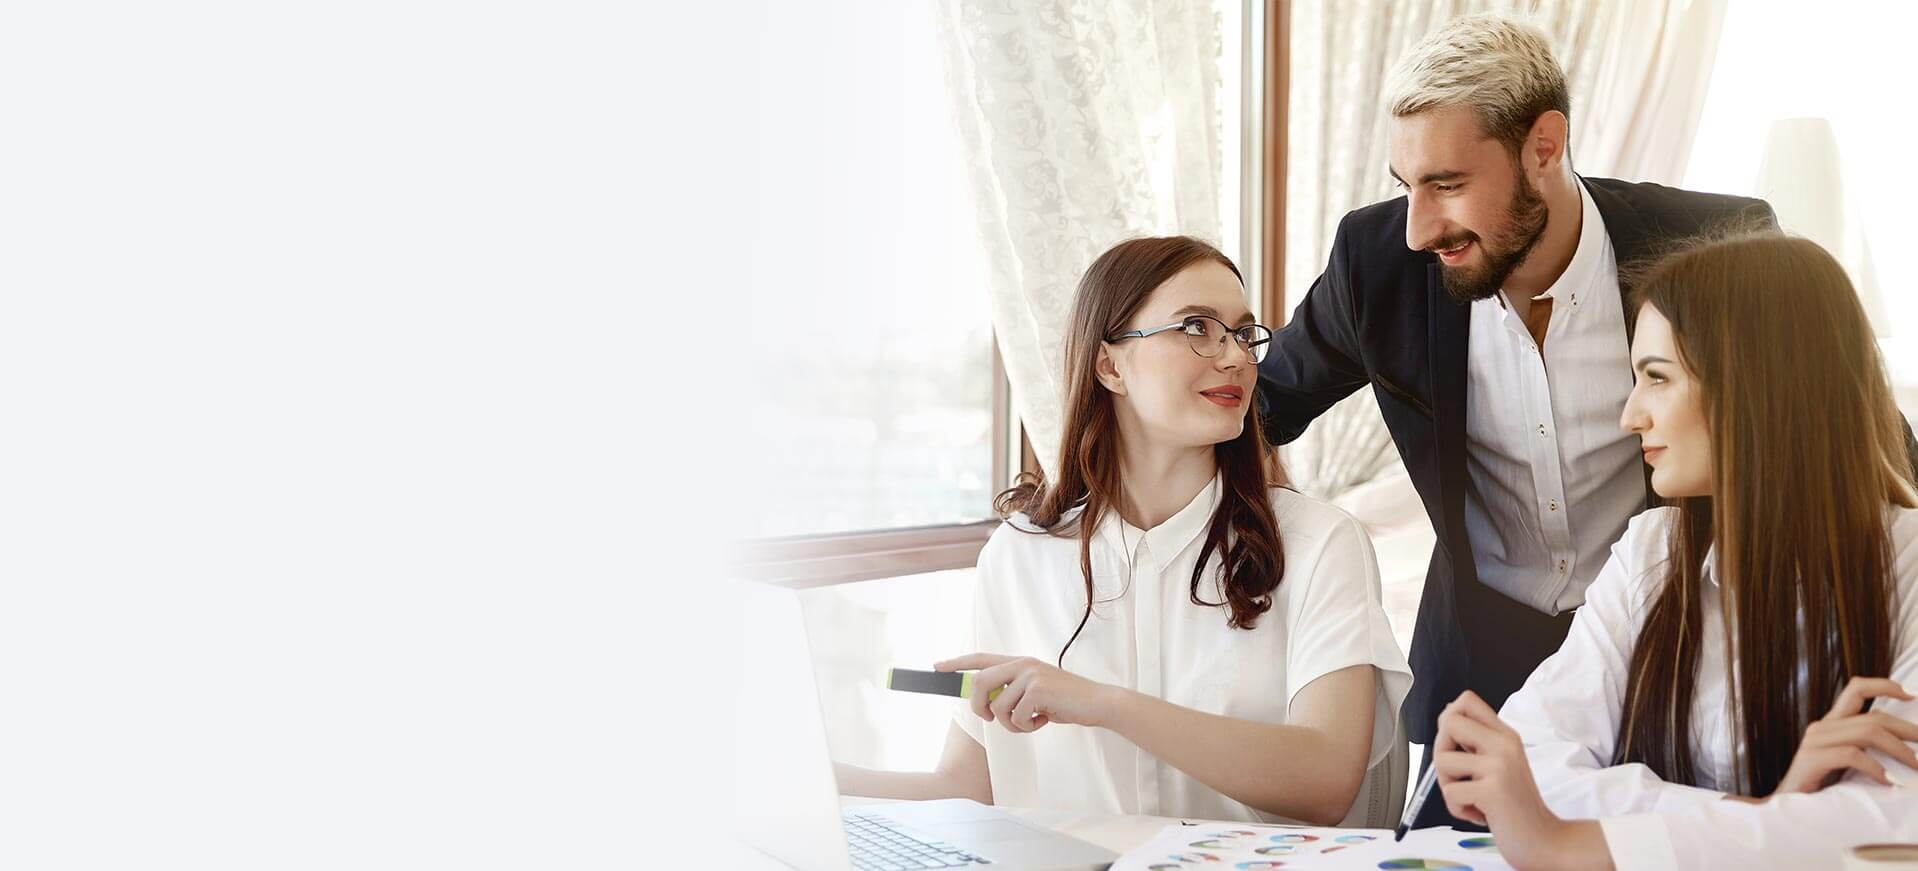
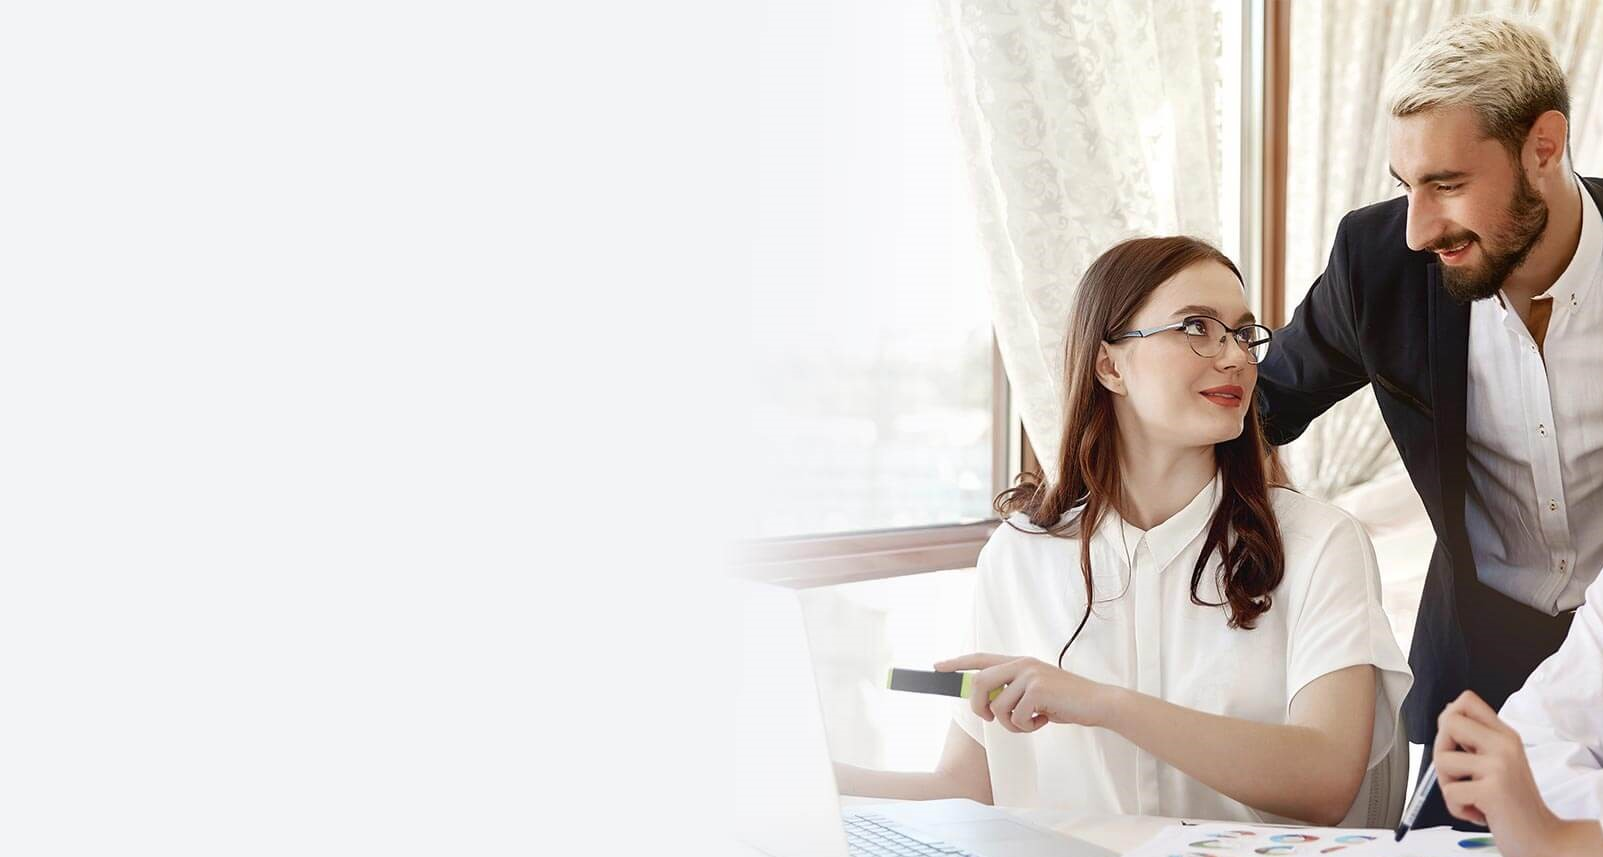
Task is completed

diff --git a/Works/Exercise4/index.html b/Works/Exercise4/index.html
@@ -20,7 +20,7 @@
             <h1>We Are Always As Your Service For Any Business Consulting</h1>
             <p>Lorem ipsum dolor sit amet, consectetur adipiscing elit, sed do eiusmod tempor incididunt ut labore et
                 dolore magna aliqua.</p>
-            <button>Get Started
+            <button><a href="#">Get Started</a>
                 <i class="fas fa-angle-right"></i>
             </button>
         </div>
@@ -28,19 +28,19 @@
     <div class="features">
         <div class="features-element">
             <img src="images/image1.png" alt=" analytics">
-            <span><b>Advanced<br> Analytics</b></span>
+            <span>Advanced<br> Analytics</span>
         </div>
         <div class="features-element">
             <img src="images/image2.png" alt="innovation">
-            <span><b>Business<br> Innovation</b></span>
+            <span>Business<br> Innovation</span>
         </div>
         <div class="features-element">
             <img src="images/image3.png" alt="Growth ">
-            <span><b>Growth<br> Consulting</b></span>
+            <span>Growth<br> Consulting</span>
         </div>
         <div class="features-element">
             <img src="images/image4.png" alt="Sales ">
-            <span><b>Sales<br> Consulting</b></span>
+            <span>Sales<br> Consulting</span>
         </div>
     </div>
 </body>

diff --git a/Works/Exercise4/style.css b/Works/Exercise4/style.css
@@ -1,6 +1,7 @@
 body{
     font-family: 'Poppins', sans-serif;
     background-image: url(images/image5.jpg);
+    background-size: 100% 100% ;
    
     
 }
@@ -31,26 +32,31 @@ button{
     border:none;
     border-radius: 4px;
     font-weight: bold;
+    
+}
+a{
+    text-decoration: none;
+    color: white;
 }
 .features{
     background-color: #1b2232;
     display:flex;
-    justify-content: space-between;
+    justify-content: center;
     width:100%;
     height:180px;
     
 }
 .features-element
 {
-    margin:auto 15px;
-    padding:0 75px;
+    margin:auto 0px;
+    padding:0 40px;
     font-size:22px;
     display: flex;  
 
 }
 
 span{
-    
+    margin: 5px 15px;
     color:white;
-    
+    font-weight: 600;
 }
